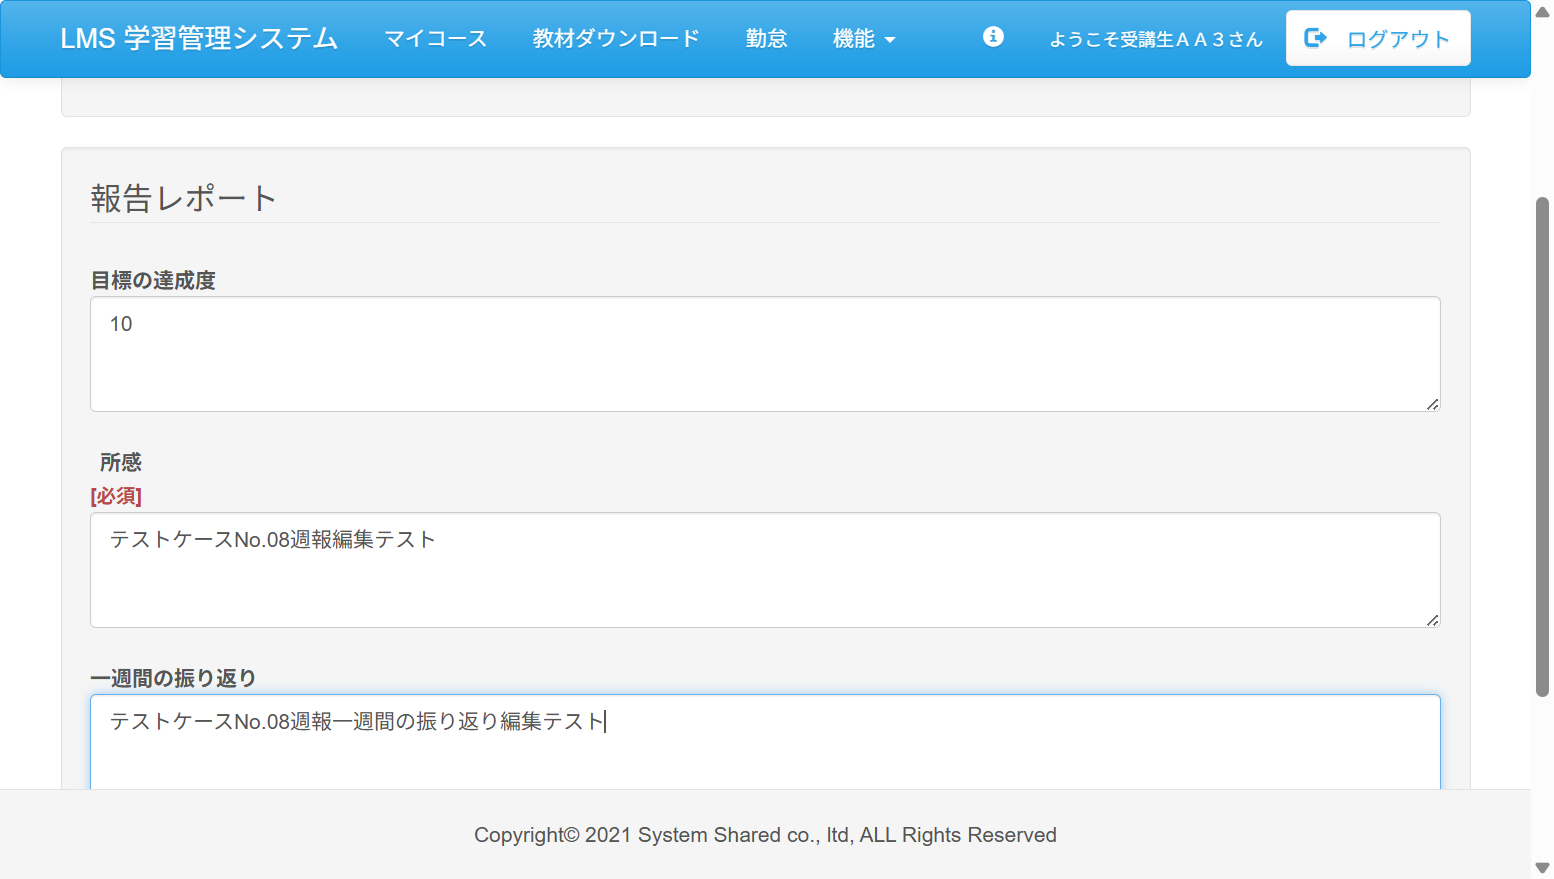
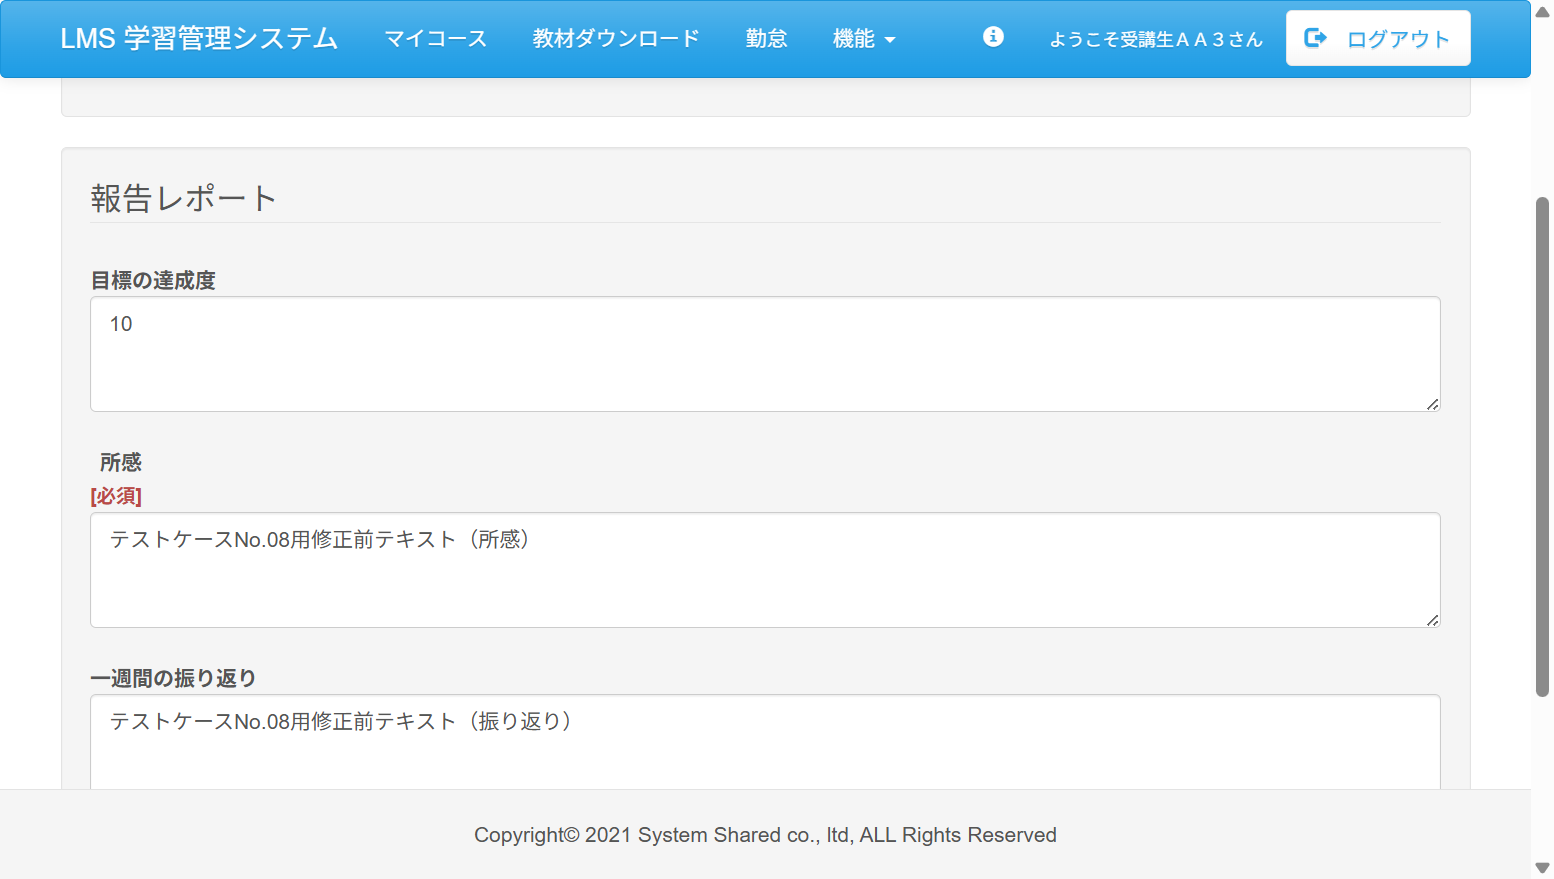
fix: Case08.java テストケース修正
test05()～test07()メソッドの修正・追加・エビデンスの追加

Changed region(s): [[0.0618, 0.7679, 0.9266, 0.8294], [0.1853, 0.5836, 0.278, 0.6451], [0.3089, 0.5836, 0.3398, 0.6451]]

diff --git a/test_code_creation_name/src/test/java/jp/co/sss/lms/ct/f03_report/Case08.java b/test_code_creation_name/src/test/java/jp/co/sss/lms/ct/f03_report/Case08.java
@@ -107,6 +107,9 @@ public class Case08 {
 	void test05() {
 		scrollBy("200");
 		List<WebElement> formList = webDriver.findElements(By.className("form-control"));
+
+		getEvidence(new Object() {
+		}, "01");
 		// (1):所感記入欄 (2):振り返り記入欄
 		WebElement feeling = formList.get(3);
 		WebElement review = formList.get(4);
@@ -114,12 +117,15 @@ public class Case08 {
 		// 修正内容を記入
 		feeling.clear();
 		review.clear();
+		getEvidence(new Object() {
+		}, "02");
+
 		feeling.sendKeys("テストケースNo.08週報編集テスト");
 		review.sendKeys("テストケースNo.08週報一週間の振り返り編集テスト");
 
 		pageLoadTimeout(5);
 		getEvidence(new Object() {
-		}, "01");
+		}, "03");
 
 		scrollBy("200");
 		// 「提出する」ボタンを押下後、セクション詳細画面に遷移
@@ -129,21 +135,48 @@ public class Case08 {
 		pageLoadTimeout(5);
 		assertEquals("セクション詳細 | LMS", webDriver.getTitle());
 		getEvidence(new Object() {
-		}, "02");
+		}, "04");
 	}
 
 	@Test
 	@Order(6)
 	@DisplayName("テスト06 上部メニューの「ようこそ○○さん」リンクからユーザー詳細画面に遷移")
 	void test06() {
-		// TODO ここに追加
+		WebElement navbar = webDriver.findElement(By.className("navbar-right"));
+		WebElement myPage = navbar.findElement(By.partialLinkText("ようこそ"));
+		myPage.click();
+
+		scrollBy("200");
+		pageLoadTimeout(5);
+		assertEquals("ユーザー詳細", webDriver.getTitle());
+		getEvidence(new Object() {
+		});
 	}
 
 	@Test
 	@Order(7)
 	@DisplayName("テスト07 該当レポートの「詳細」ボタンを押下しレポート詳細画面で修正内容が反映される")
 	void test07() {
-		// TODO ここに追加
+		WebElement detail = webDriver.findElement(By.xpath("//input[@value='詳細']"));
+		detail.click();
+		pageLoadTimeout(5);
+		assertEquals("レポート詳細 | LMS", webDriver.getTitle());
+
+		// テーブルのリストを取得
+		List<WebElement> tableList = webDriver.findElements(By.tagName("table"));
+		WebElement reportDetail = tableList.get(2);
+
+		// tableList(2)の中のtdタグをリスト化
+		List<WebElement> tdList = reportDetail.findElements(By.tagName("td"));
+		// 所感記入欄
+		WebElement tdFeeling = tdList.get(1);
+		// 振り返り記入欄
+		WebElement tdReview = tdList.get(2);
+
+		assertEquals("テストケースNo.08週報編集テスト", tdFeeling.getText());
+		assertEquals("テストケースNo.08週報一週間の振り返り編集テスト", tdReview.getText());
+		getEvidence(new Object() {
+		});
 	}
 
 }
